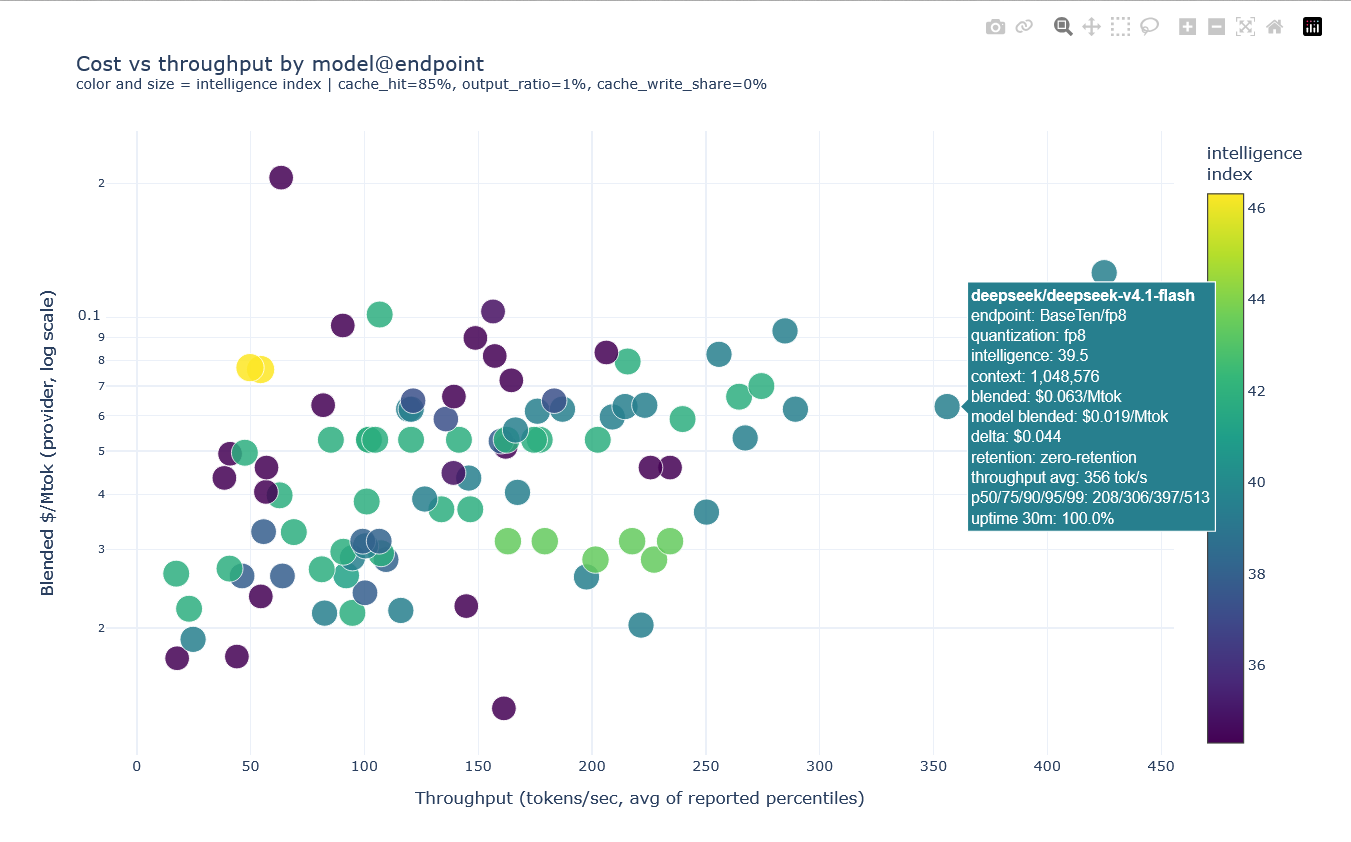
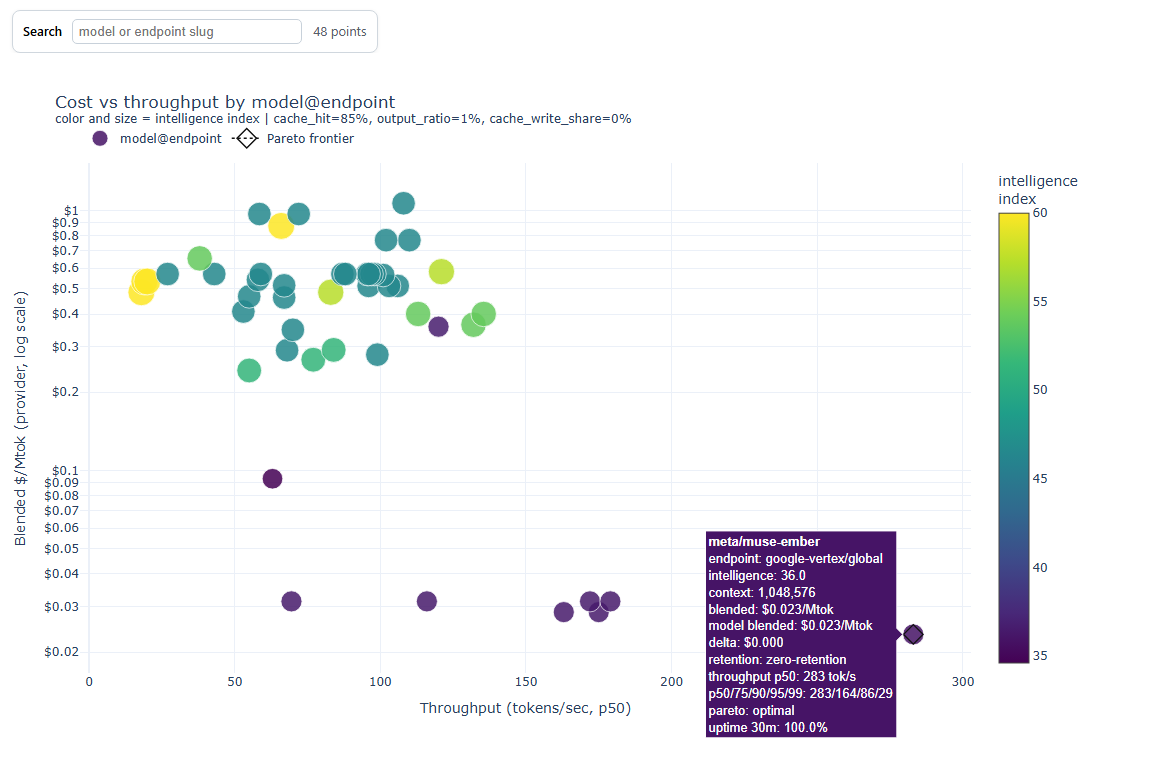
Refresh README plot for p50 and fix log tick labels
Plotly abbreviates a narrow log range to a mantissa ladder (9, 8, ... 2),
which reads like plain integers; format the y ticks with their significant
digits so they show as \.09, \.08, ... Regenerate docs/frontier.png from
the command the caption cites, so it shows p50 axes, the Pareto frontier,
and the search box.

diff --git a/price_frontier.py b/price_frontier.py
@@ -710,6 +710,10 @@ def write_plot(
         xaxis_title="Throughput (tokens/sec, p50)",
         yaxis_title="Blended $/Mtok (provider, log scale)",
         yaxis_type="log",
+        # On a log axis plotly abbreviates a narrow range to a mantissa ladder
+        # ("9", "8", ... "2"), which reads like plain integers. Ask for the
+        # significant digits instead; ~ drops the trailing zeros it pads with.
+        yaxis_tickformat="$,.3~g",
         template="plotly_white",
         hovermode="closest",
         # Hover anywhere in the column, not just on the marker itself, so the
